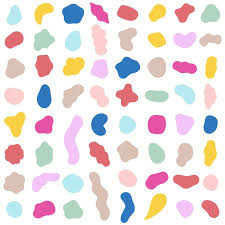
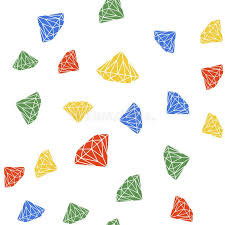
change pics

diff --git a/lms-frontend/src/pages/StudentDashboard.js b/lms-frontend/src/pages/StudentDashboard.js
@@ -15,7 +15,7 @@ export default function StudentDashboard() {
   const token = localStorage.getItem("token");
 
   const getPersistentImage = (courseId) => {
-    const totalImages = 3;
+    const totalImages = 5;
     const key = `course-img-${courseId}`;
     let imageIndex = localStorage.getItem(key);
     if (!imageIndex) {

diff --git a/lms-frontend/src/pages/TeacherDashboard.js b/lms-frontend/src/pages/TeacherDashboard.js
@@ -21,7 +21,7 @@ export default function TeacherDashboard() {
 
   // ✅ Assign persistent image per course
   const getPersistentImage = (courseId) => {
-    const totalImages = 3;
+    const totalImages = 5;
     const key = `course-img-${courseId}`;
     let imageIndex = localStorage.getItem(key);
     if (!imageIndex) {

diff --git a/lms-frontend/src/App.js b/lms-frontend/src/App.js
@@ -12,6 +12,7 @@ function App() {
   return (
     <Router>
       <Routes>
+        <Route path="/" element={<Login />} />
         <Route path="/login" element={<Login />} />
         <Route path="/register" element={<Register />} />
         <Route path="/student-dashboard" element={<StudentDashboard />} />
